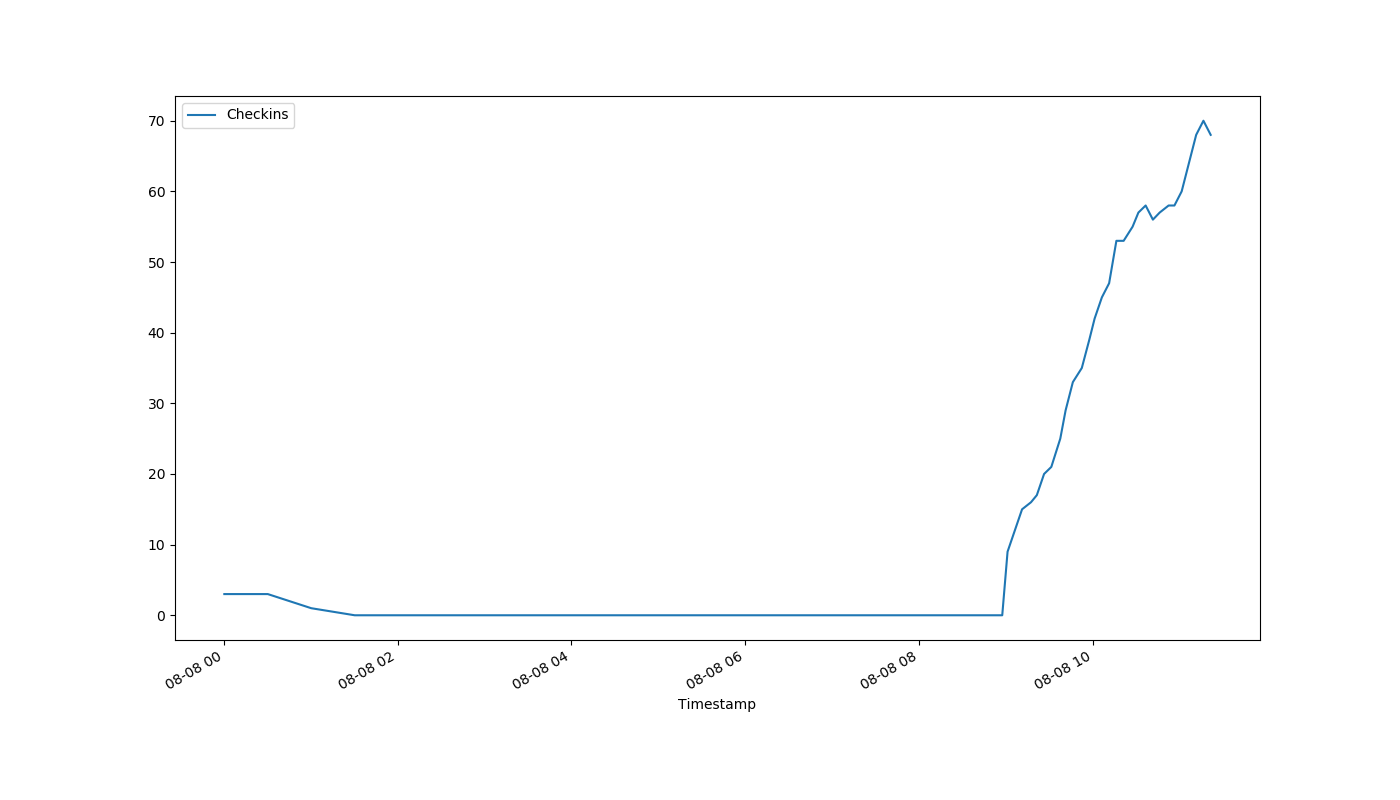
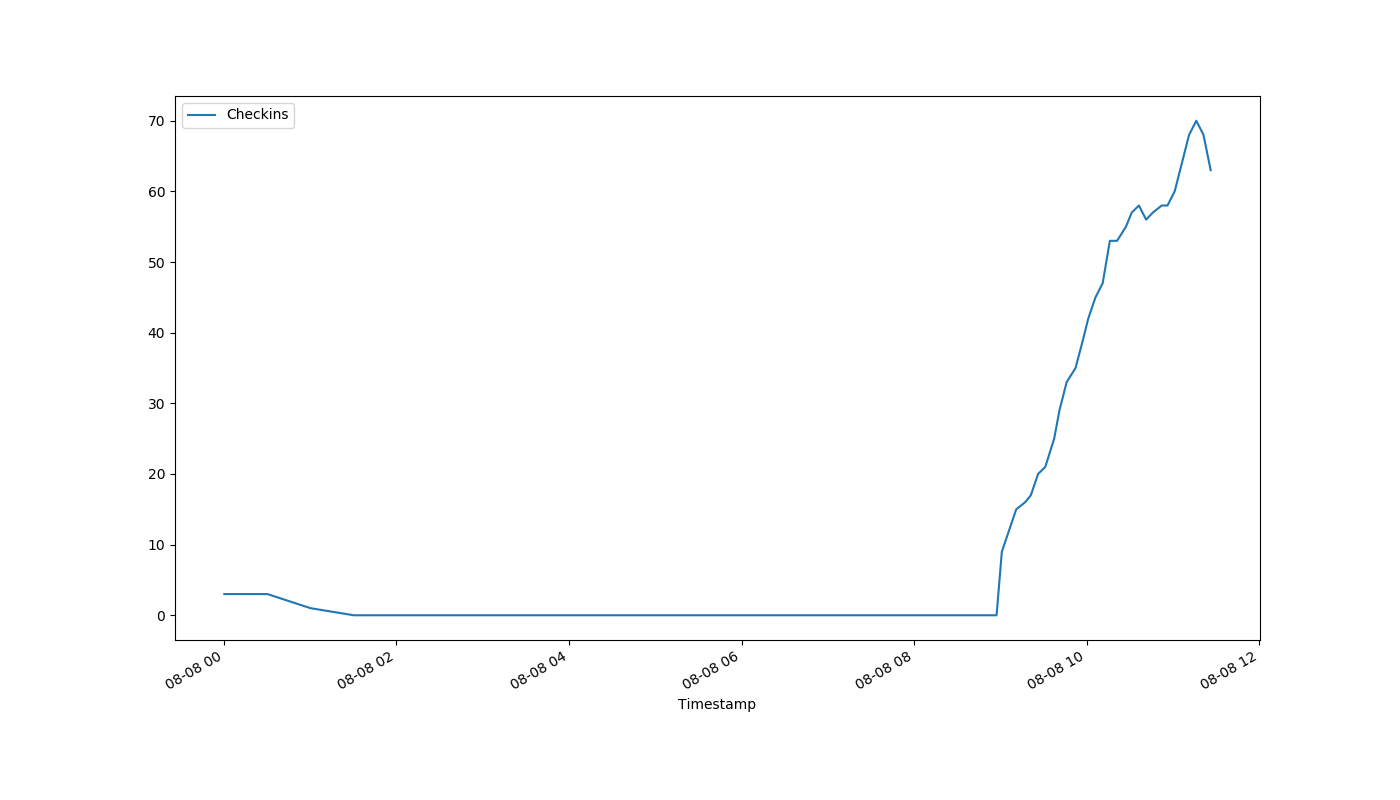
auto-Aug-08-11:28:45

diff --git a/index.html b/index.html
@@ -1,1 +1,1 @@
-<!DOCTYPE html><html><head><meta http-equiv="refresh" content="30"><link rel='stylesheet' href='holmcurrent.css'></head><body><p id='count'>68</p><div id='graph-wrap'><img id='graph' src='holmgraph-Aug-08.png'></div><p id='updated'>Last updated 11:22:09 / 11:21:13</p></body></html>
+<!DOCTYPE html><html><head><meta http-equiv="refresh" content="30"><link rel='stylesheet' href='holmcurrent.css'></head><body><p id='count'>63</p><div id='graph-wrap'><img id='graph' src='holmgraph-Aug-08.png'></div><p id='updated'>Last updated 11:27:09 / 11:26:13</p></body></html>
